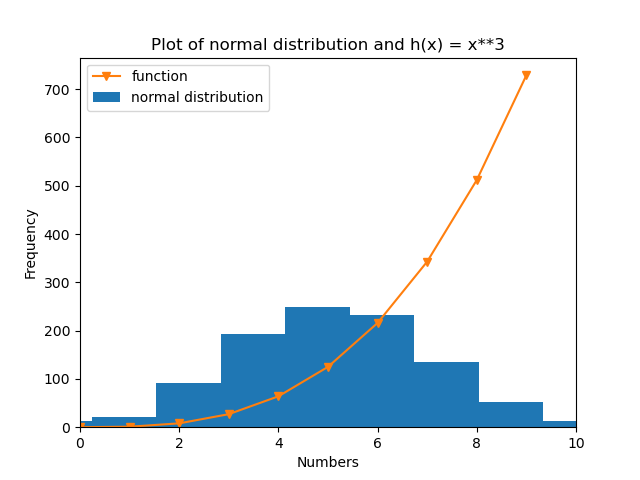
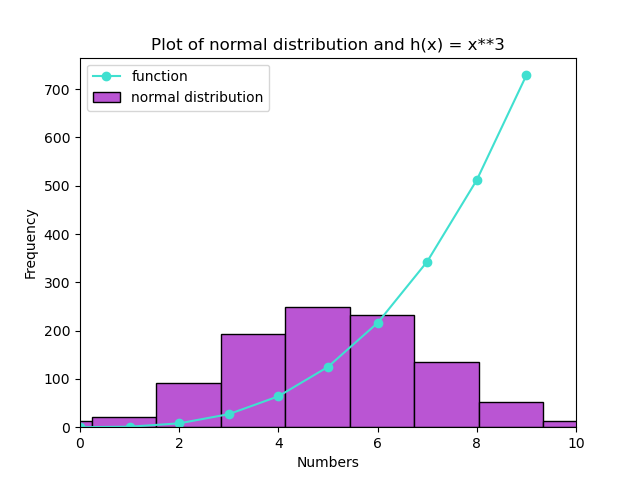
playing with plot colors

diff --git a/plottask.py b/plottask.py
@@ -9,15 +9,17 @@ import numpy as np
 import matplotlib.pyplot as plt
 
 
-
+# Set a seed, not required as part of task but it will make it easier to see any changes made to the program. Remove before submitting.
 np.random.seed(123355)
+
+
 data = np.random.normal(5, 2, 1000)  # inputs into the normal(mean, standard deviation, values)
 
 # Truncate the x-axis at 10  
 plt.xlim(0, 10)
-#axes.set_ylim([ymin,ymax])
 
-plt.hist(data)
+# Generate a histogram.
+plt.hist(data, bins = 15, edgecolor = 'black')
 
 # Plot the function h(x) = x^3 in the range of 0 to 10
 
@@ -42,5 +44,8 @@ plt.savefig("plottask.png")
 
 # Display the plot on screen
 plt.show()
+
+
+# References
 
 #https://matplotlib.org/stable/api/_as_gen/matplotlib.pyplot.xlim.html
